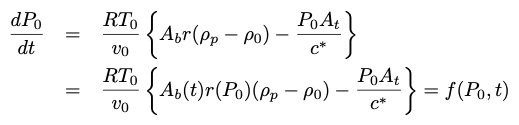
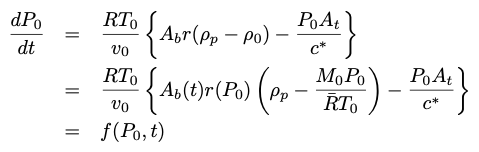
update formula

diff --git a/start_up.m b/start_up.m
@@ -1,0 +1,90 @@
+clear; close all;
+
+global grain; global burndata; global rho_p; 
+global c_star; global Kn; 
+
+
+grain_names = ["knsu","kndx","knsb"];
+
+%for grain_name = grain_names
+grain_name = 'knsu';
+% grain_name = 'kndx';
+% grain_name = 'knsb';
+grain = readtable(strcat('./parameter/',grain_name,'.csv'));
+burndata = readtable(strcat('./data/',grain_name,'.csv'));
+
+Ps=[];
+Kns=[];
+
+ts=0.1:0.1:2;
+
+for t = ts
+% t = 0.1; %[s] :決め打ち
+%f(p)=0となるpを2分法で求める
+
+lower_limit = 0.2; %Mpa -> 1気圧より高い値
+upper_limit = 2; %MPa -> 燃焼圧は20気圧におさまるはず
+division = 100;
+
+% すべてMKS単位系に直して計算する
+f = @(p) p*1e6 - get_Kn(get_r(p),t) * (rho_p*1e3) * (get_r(p)*1e-3) * c_star;
+
+%%%%%%%%%%%%%%%%%%%%%%%%%%%%%%%%%%%%%%%%%%%%%%%%%%%%%%%%%%%%
+% デバッグ用 識別関数fのプロット
+% fs=[];
+% xs=linspace(lower_limit,upper_limit,division);
+% for idx=1:length(xs)
+%    x=xs(idx);
+%    fs(end+1)=f(x);
+% end
+% plot(xs,fs);
+% hold on;
+% plot(xs,zeros(size(xs)));
+% title('識別関数 f(x)=0');
+% big;
+%%%%%%%%%%%%%%%%%%%%%%%%%%%%%%%%%%%%%%%%%%%%%%%%%%%%%%%%%%%%
+
+a(1)=lower_limit;
+b(1)=upper_limit;
+c=zeros(1,division);
+
+k=2;
+delta=1e-10;
+epsilon=0.5e-5;
+res1=1e4;
+res2=1e4;
+while res1>delta && res2>epsilon
+  c(k)=1/2*(a(k-1)+b(k-1));
+  check = f(a(k-1))*f(c(k));
+  if check<0
+    a(k) = a(k-1);
+    b(k) = c(k);
+  else 
+    a(k) = c(k);
+    b(k) = b(k-1);  
+  end
+  res1=abs(f(c(k)));
+  res2=abs(a(k-1)-b(k-1));
+  k = k+1;
+  %disp(res2);
+end
+
+Ps(end+1)=c(k-1);
+Kns(end+1)=Kn;
+
+end
+
+plot(ts,Ps);
+hold on;
+title('Pressure over time');
+xlabel('Time [sec]');
+ylabel('Pressure [MPa]');
+big;
+
+%end
+
+legend(grain_names);
+
+% plot(ts,Kns);
+% fprintf('Pressure = %f[MPa]\n',c(k-1));
+% fprintf('Kn = %f\n',Kn);

diff --git a/README.md b/README.md
@@ -47,6 +47,3 @@ The derivative of the combustion pressure P0 is calcuated by the following equat
 where T0 is the AFT (adiabatic flame temperature), v0/rho0 is the volume/density of the product gas (mixture of several molecules).
 
 
-
-
-
